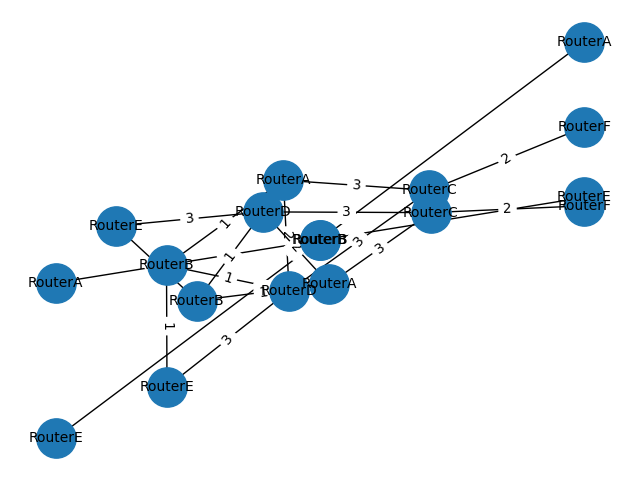
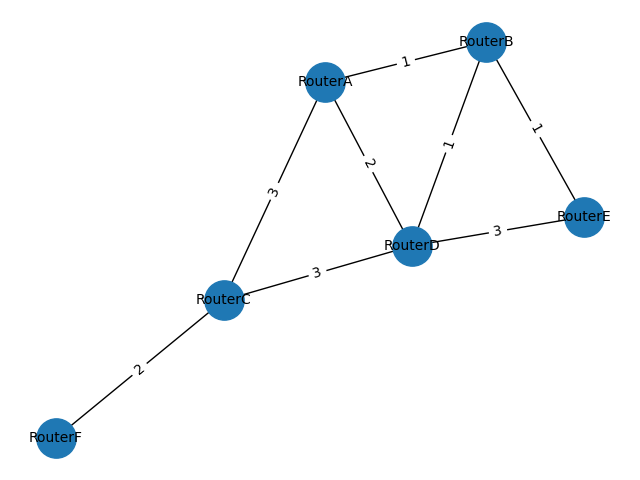
feat edicoes

diff --git a/enlace/enlaceapp/templates/enlaceapp/sobre.html b/enlace/enlaceapp/templates/enlaceapp/sobre.html
@@ -12,6 +12,32 @@
     </head>
     <body>
         <h1>Sobre</h1>
+        <h1>Camada de Enlace no Modelo OSI 🌐🔗</h1>
+        <p>O Modelo OSI (Open Systems Interconnection) é um padrão conceitual usado para entender e descrever as funcionalidades e interações entre os diferentes protocolos de rede em um sistema de comunicação de dados1. Ele divide o processo de comunicação em sete camadas distintas, cada uma com funções específicas. Vamos focar na Camada de Enlace, que é a segunda camada do modelo.
+        </p>
+        <h1>O que é a Camada de Enlace</h1>
+        <p>A Camada de Enlace é responsável por garantir a comunicação confiável entre dispositivos diretamente conectados na rede. Suas principais funções incluem:
+        </p>
+        <p>
+            1. Tratamento de Erros de Transmissão: Detecta e corrige erros que podem ocorrer durante a transmissão dos dados.
+        </p>
+        <p>
+            2. Controle de Fluxo de Dados: Regula a velocidade de transmissão para evitar congestionamentos.
+        </p>
+        <p>
+            3. Interface com a Camada de Rede: Fornece uma interface bem definida para a camada superior (Camada de Rede).
+        </p>
+        <h1>Simuladores de Enlace de Dados</h1>
+        <p>Para entender melhor como a Camada de Enlace funciona, muitas vezes utilizamos simuladores de enlace de dados. Essas ferramentas permitem que os profissionais de rede testem cenários e comportamentos da camada de enlace em um ambiente controlado. Alguns simuladores populares incluem o Cisco Packet Tracer e o GNS3.
+        </p>
+        <h1>Protocolo OSPF (Open Shortest Path First)</h1>
+        <p>O OSPF é um protocolo de roteamento utilizado na Camada de Rede do Modelo OSI. Ele é usado para determinar as rotas mais curtas (caminhos) entre roteadores em uma rede IP. O OSPF é baseado no algoritmo Dijkstra e é amplamente utilizado em redes empresariais e provedores de serviços.
+        </p>
+        <p>Em resumo, a Camada de Enlace é essencial para garantir a integridade dos dados durante a transmissão e para fornecer uma base sólida para a comunicação em redes de computadores. 
+        </p>
+        <br>
+        <p>Acesse também: <a href="/">Home</a> 
+        <br>
         <br>
         <script src="" async defer></script>
     </body>

diff --git a/enlace/enlaceapp/templates/enlaceapp/resultado_ospf.html b/enlace/enlaceapp/templates/enlaceapp/resultado_ospf.html
@@ -13,10 +13,13 @@
     <body>
         <h1>Protocolo OSPF</h1>
     
-        <img src="{{ graph_min }}" alt="Caminho Mínimo">
+        <div class="graph-container">
+            <img src="{% static 'C:/Users/franc/OneDrive/Área de Trabalho/enlace-redes/enlace/static/enlaceapp/images/graph_min.png' %}" alt="Grafico Minimo" style="width: 40%; margin-left: auto; margin-right: auto;" label="Caminho Minimo">
+            <img src="{% static 'C:/Users/franc/OneDrive/Área de Trabalho/enlace-redes/enlace/static/enlaceapp/images/graph_complet.png' %}" alt="Grafico Completo" style="width: 50%; height: auto; margin-left: 50px;" label="Topologia Completa">
+        </div>
 
-        <p>Retorne para a <a href="/">Home</a> ou retorne caso deseje gerar outros resultados, <a href="ospf/">Protocolo OSPF</a></p>
-        <p>Acesse também: <a href="sobre/">Sobre</a> <a href="contato/">Contato</a></p>
+        <p>Retorne para a <a href="/">Home</a>
+        <br>
         <script src="" async defer></script>
     </body>
 </html>

diff --git a/enlace/enlaceapp/templates/enlaceapp/resultado_simulador.html b/enlace/enlaceapp/templates/enlaceapp/resultado_simulador.html
@@ -25,7 +25,6 @@
             <td>{{crc}}</td>
         </tr>
     </table>
-    <p>Retorne para a <a href="/">Home</a> ou retorne caso deseje colocar outro texto, <a href="simulador_enlace/">Simulador de Enlace de Dados</a></p>
-    <p>Acesse também: <a href="sobre/">Sobre</a> <a href="contato/">Contato</a></p>
+    <p>Retorne para a <a href="/">Home</a>
 </body>
 </html>

diff --git a/enlace/enlaceapp/templates/enlaceapp/home.html b/enlace/enlaceapp/templates/enlaceapp/home.html
@@ -28,6 +28,7 @@
         <p>Caso deseje utilizar esse serviço, clique <a href="ospf/">aqui!</a></p>
         <br>
         <p>Acesse também: <a href="sobre/">Sobre</a> <a href="contato/">Contato</a></p>
+        <br>
         <script src="" async defer></script>
     </body>
 </html>

diff --git a/enlace/enlaceapp/templates/enlaceapp/contato.html b/enlace/enlaceapp/templates/enlaceapp/contato.html
@@ -36,6 +36,9 @@
             </p>
             <a href="edison@email.com">Entre em contato</a>
         </ul>
+        <br>
+        <p>Acesse também: <a href="/">Home</a>
+        <br>
         <script src="" async defer></script>
     </body>
 </html>

diff --git a/enlace/static/enlaceapp/css/styles.css b/enlace/static/enlaceapp/css/styles.css
@@ -65,6 +65,16 @@ p {
     color: #C62E65;
 }
 
+.graph-container {
+    display: flex;
+}
+
+.graph-container img {
+    width: 50%;
+    height: auto;
+    margin-left: 50px;
+}
+
 .destaque {
     color: #C62E65;
     font-weight: bold;

diff --git a/enlace/enlaceapp/templates/enlaceapp/simulador_enlace.html b/enlace/enlaceapp/templates/enlaceapp/simulador_enlace.html
@@ -18,6 +18,9 @@
         <br>
         <br>
         <input type="submit" value="Enviar" class="form-submit-button">
+        <br>
+        <p>Acesse também: <a href="/">Home</a>
+        <br>
     </form>   
 </body>
 </html>

diff --git a/enlace/enlaceapp/templates/enlaceapp/ospf.html b/enlace/enlaceapp/templates/enlaceapp/ospf.html
@@ -18,6 +18,7 @@
         <br>
         
         <a href="{% url 'enlaceapp:resultado_ospf' %}">Veja este protocolo em ação!</a>
+        <br>
         <script src="" async defer></script>
     </body>
 </html>

diff --git a/enlace/enlaceapp/views.py b/enlace/enlaceapp/views.py
@@ -1,7 +1,7 @@
 from django.shortcuts import render
 from django.http import HttpResponse
 from enlaceapp.simulador_enlace import EnlaceDadosSimulator, generate_random_mac
-from enlaceapp.ospf import links
+from enlaceapp.ospf import NetworkAnalyzer
 from enlaceapp.EnlaceForm import EnlaceForm
 from .models import Enlace
 import os
@@ -58,12 +58,69 @@ def ospf(request):
     return render(request, 'enlaceapp/ospf.html', {'explanation': explanation})
 
 def resultado_ospf(request):
-    graph = links()
+    # Inicializa o NetworkAnalyzer
+    analyzer = NetworkAnalyzer()
+
+    # Adiciona roteadores e links à topologia
+    analyzer.add_router("RouterA")
+    analyzer.add_router("RouterB")
+    analyzer.add_router("RouterC")
+    analyzer.add_router("RouterD") # Adicionando mais roteadores
+    analyzer.add_router("RouterE")
+    analyzer.add_router("RouterF")
+
+    # Adiciona links com atributos adicionais
+    analyzer.add_link("RouterA", "RouterB", link_id=1, taxa_transmissao=1000, tamanho_max_quadro=1500, latencia=5, custo=1)
+    analyzer.add_link("RouterB", "RouterC", link_id=2, taxa_transmissao=500, tamanho_max_quadro=1000, latencia=3, custo=2)
+    analyzer.add_link("RouterA", "RouterC", link_id=3, taxa_transmissao=2000, tamanho_max_quadro=2000, latencia=8, custo=3)
+    analyzer.add_link("RouterB", "RouterD", link_id=4, taxa_transmissao=1000, tamanho_max_quadro=1500, latencia=5, custo=1)
+    analyzer.add_link("RouterD", "RouterE", link_id=5, taxa_transmissao=2000, tamanho_max_quadro=2000, latencia=8, custo=3)
+    analyzer.add_link("RouterC", "RouterF", link_id=6, taxa_transmissao=500, tamanho_max_quadro=1000, latencia=3, custo=2)
+    analyzer.add_link("RouterA", "RouterD", link_id=7, taxa_transmissao=1500, tamanho_max_quadro=2000, latencia=4, custo=2)
+    analyzer.add_link("RouterB", "RouterE", link_id=8, taxa_transmissao=2500, tamanho_max_quadro=2500, latencia=6, custo=1)
+    analyzer.add_link("RouterC", "RouterD", link_id=9, taxa_transmissao=800, tamanho_max_quadro=1800, latencia=7, custo=3)
+
+    # Simula uma falha de link
+    analyzer.simular_falha_link(2)
+
+    # Execute o OSPF e coleta a saída
+    ospf_output = analyzer.run_ospf()
+    #graph_min = ospf_output.savefig("C:/Users/franc/OneDrive/Área de Trabalho/enlace-redes/enlace/static/enlaceapp/images/graph_min.png")
+
+
+    # Visualizar a topologia completa e salvar a imagem
+    graph_output = analyzer.visualize_topology()
+    #graph_output_path = os.path.join(settings.MEDIA_ROOT, 'enlaceapp/images/topologia_completa.png')
+    #graph_output.save(graph_output_path)
+    #graph_complet = graph_output.savefig("C:/Users/franc/OneDrive/Área de Trabalho/enlace-redes/enlace/static/enlaceapp/images/graph_complet.png")
+
+    # Lista para armazenar a saída do protocolo de roteamento de enlace para cada roteador
+    protocol_output = []
+
+    # Executa o protocolo de roteamento de enlace para cada roteador e coleta a saída
+    for router_name in ["RouterA", "RouterB", "RouterC", "RouterD", "RouterE", "RouterF"]:
+        output = analyzer.run_protocolo_roteamento(router_name)
+        protocol_output.append(output)
+
+    # Lista para armazenar a saída da simulação de transmissão de quadros
+    transmission_output = []
+
+    # Simula a transmissão de quadros e a retransmissão em caso de colisão
+    for link_id in range(1, 7):
+        output = analyzer.csma_cd(link_id, f"Quadro {link_id}")
+        transmission_output.append(output)
+
+    print("saida po",protocol_output)
+    print("saida to",transmission_output)
 
     context = {}
-    context['graph_min'] = graph
+    context['graph_min'] = ospf_output
+    context['graph_complet'] = graph_output
+    context['protocol_output'] = protocol_output
+    context['transmission_output'] = transmission_output
 
-    return render(request, 'enlaceapp/ospf.html', context)
+    # Renderiza o template com as saídas coletadas
+    return render(request, 'enlaceapp/resultado_ospf.html', context)
 
 def sobre(request):
     return render(request, 'enlaceapp/sobre.html')

diff --git a/enlace/enlaceapp/ospf.py b/enlace/enlaceapp/ospf.py
@@ -81,11 +81,8 @@ class NetworkAnalyzer:
         pos = nx.spring_layout(min_path_graph)
         nx.draw(min_path_graph, pos, with_labels=True, node_size=800, font_size=10)
         plt.title("Caminho Mínimo")
-        #plt.show()
-
-        #salvando grafico
-        #plt.savefig("enlace/static/enlaceapp/images/graph_min.png")
         plt.savefig("C:/Users/franc/OneDrive/Área de Trabalho/enlace-redes/enlace/static/enlaceapp/images/graph_min.png")
+        plt.show()        
     
     def visualize_topology(self, graph=None):
       if graph is None:
@@ -100,40 +97,8 @@ class NetworkAnalyzer:
       nx.draw_networkx_edge_labels(graph, pos, edge_labels=edge_labels)
 
       plt.title("Topologia Completa")
-      #plt.show()
-
-      #salvando grafico
-      #plt.savefig("enlace/static/enlaceapp/images/graph_complet.png")
       plt.savefig("C:/Users/franc/OneDrive/Área de Trabalho/enlace-redes/enlace/static/enlaceapp/images/graph_complet.png")
-
-def links():
-    analyzer = NetworkAnalyzer()
-    # Adicione roteadores e links à topologia
-    analyzer.add_router("RouterA")
-    analyzer.add_router("RouterB")
-    analyzer.add_router("RouterC")
-    analyzer.add_router("RouterD") # Adicionando mais roteadores
-    analyzer.add_router("RouterE")
-    analyzer.add_router("RouterF")
-
-    # Adicione links com atributos adicionais
-    analyzer.add_link("RouterA", "RouterB", link_id=1, taxa_transmissao=1000, tamanho_max_quadro=1500, latencia=5, custo=1)
-    analyzer.add_link("RouterB", "RouterC", link_id=2, taxa_transmissao=500, tamanho_max_quadro=1000, latencia=3, custo=2)
-    analyzer.add_link("RouterA", "RouterC", link_id=3, taxa_transmissao=2000, tamanho_max_quadro=2000, latencia=8, custo=3)
-    analyzer.add_link("RouterB", "RouterD", link_id=4, taxa_transmissao=1000, tamanho_max_quadro=1500, latencia=5, custo=1)
-    analyzer.add_link("RouterD", "RouterE", link_id=5, taxa_transmissao=2000, tamanho_max_quadro=2000, latencia=8, custo=3)
-    analyzer.add_link("RouterC", "RouterF", link_id=6, taxa_transmissao=500, tamanho_max_quadro=1000, latencia=3, custo=2)
-    analyzer.add_link("RouterA", "RouterD", link_id=7, taxa_transmissao=1500, tamanho_max_quadro=2000, latencia=4, custo=2)
-    analyzer.add_link("RouterB", "RouterE", link_id=8, taxa_transmissao=2500, tamanho_max_quadro=2500, latencia=6, custo=1)
-    analyzer.add_link("RouterC", "RouterD", link_id=9, taxa_transmissao=800, tamanho_max_quadro=1800, latencia=7, custo=3)
-
-    # Simula uma falha de link
-    analyzer.simular_falha_link(2)
-
-    minimo = analyzer.run_ospf()
-    analyzer.visualize_topology()
-
-    return minimo
+      plt.show()  
 
 '''
 if __name__ == "__main__":
